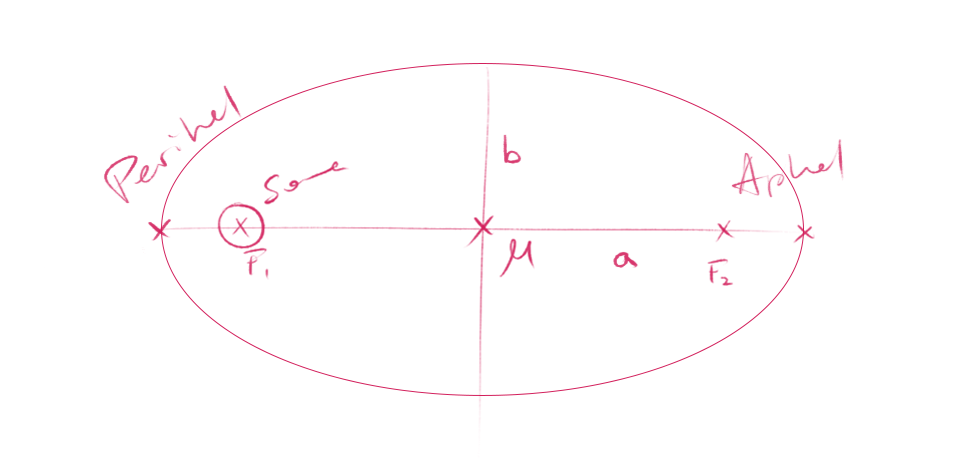
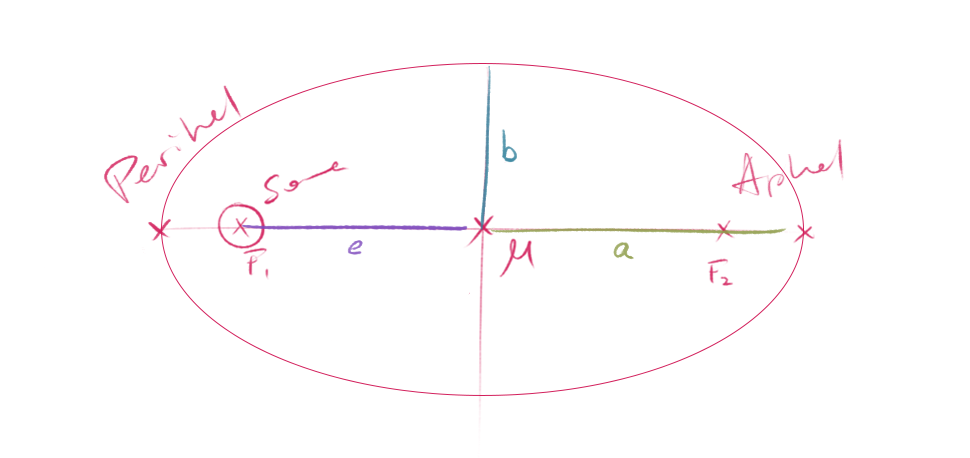
regular update

Changed region(s): [[0.2474, 0.214, 0.8041, 0.5808]]

diff --git a/physik/04_gravitationstheorie/07_kepler.md b/physik/04_gravitationstheorie/07_kepler.md
@@ -2,40 +2,48 @@
 title: Kepler
 ---
 
-Kepler hat 3 wesentliche Entdeckungen zur Thema Planetenmechanik gemacht, aber keine physikalische Erklärung dafür gefunden.  
-Erst Newton konnte in Rahmen seine klassische Mechanik bzw. klassische Gravitationstheorie eine Plysikalische Erklärung geben und dass 2. und 3. Keplersches Gesetz herleiten.  
+Kepler machte drei wesentliche Entdeckungen zur Planetenmechanik,  
+konnte jedoch keine physikalische Erklärung dafür liefern.  
+
+Erst Newton konnte im Rahmen seiner klassischen Mechanik bzw. seiner
+klassischen Gravitationstheorie eine physikalische Erklärung geben
+und das zweite sowie das dritte Keplersche Gesetz herleiten.  
 
 
 ## 1. Keplersches Gesetz
 
-**Die Planeten bewegen sich in Ellipsenbahnen, in deren gemeinsamen Brennpunkt die Sonne steht.**
+**Die Planeten bewegen sich auf Ellipsenbahnen, in deren einem Brennpunkt die Sonne steht.**
 
 Größte Selbstverständlichkeit ist ohne nachzudenken.  
-Leute sind ausgegangen dass Planetenbahnen Kreisbahnen sind.  
+Leute von früher sind ausgegangen dass Planetenbahnen Kreisbahnen sind.
 
 ![1. Keplersches Gesetz](../media/sketches/kepler01.png)  
 
-Aphel: Sonnenfernste Punkt  
-Perihel: Sonnennächste Punkt  
+Aphel: sonnenfernster Punkt  
+Perihel: sonnennächster Punkt  
 $a \dots$ große Halbachse  
 $b \dots$ kleine Halbachse  
-$e \dots$ Exzentrität *(ist eine Bestimmungsgröße für Ellipsen. Sie gibt das Ausmaß der Abweichung der Ellipsenform von der Kreisform an: Je größer die Exzentrizität, desto stärker ist die Ellipse ausgeprägt)*
+$e \dots$ Exzentrizität  
+
+*(Exzentrizität ist eine Bestimmungsgröße für Ellipsen. Sie gibt das Ausmaß der Abweichung
+der Ellipsenform von der Kreisform an:  
+Je größer die Exzentrizität, desto stärker ist die Ellipse ausgeprägt)*
 
 
 
 ## 2. Keplersches Gesetz
 
-**Der von der Sonne zum Planeten zeigende Radiusvektor $r$ überstreicht in gleichen Zeiten gleiche Flächen**
+**Der von der Sonne zum Planeten zeigende Radiusvektor $r$ überstreicht
+in gleichen Zeiten gleiche Flächen.**
 
 $$ 
 \frac{\Delta A_1}{\Delta t_1} = \frac{\Delta A_2}{\Delta t_2}
 $$
 
-$\Delta A_1$, $\Delta A_2 \dots$ überstrichene Fläche  
-$\Delta t_1$, $\Delta t_2 \dots$ Zeitspanne  
+$\Delta A_1$, $\Delta A_2 \dots$ überstrichene Flächen  
+$\Delta t_1$, $\Delta t_2 \dots$ Zeitspannen  
 
-
-also: Wenn $\Delta t_1 = \Delta t_2$, dann Wenn $\Delta A_1 = \Delta A_2$.  
+also: Wenn $\Delta t_1 = \Delta t_2$, dann gilt $\Delta A_1 = \Delta A_2$.  
 
 $L \dots$ Drehimpuls
 
@@ -43,65 +51,86 @@ $$
 L = m \cdot v \cdot r = \text{const}
 $$
 
-Die Drehimpuls eines Planetes ist immer konstant. 
+Der Drehimpuls eines Planeten ist konstant.  
 
 ![2. Keplersches Gesetz](../media/sketches/kepler02.png)
 
-Wenn wir die Bewegung des Planeten nur über eine kurze Zeit betrachten, können wir annehmen dass die Geschwindigkeit des Planeten konstant bleibt  ($v = \text{const}$) und dass der Planet anstatt Ellipsenbahn eine gerade Strecke zurücklegt.
+Wenn wir die Bewegung des Planeten nur über eine kurze Zeit betrachten,
+können wir annehmen, dass die Geschwindigkeit des Planeten konstant bleibt
+($v = \text{const}$)  
+und dass der Planet anstatt einer Ellipsenbahn eine gerade Strecke zurücklegt.
 
 ![2. Keplersches Gesetz](../media/sketches/kepler03.png)  
 
 
-wenn $v = \text{const}$ gilt: 
+Wenn $v = \text{const}$ gilt:
 
 $$
-v=s/t
+v = \frac{s}{t}
 $$
 
-$s/t$ statt $v$ einsetzen:
+$s/t$ anstelle von $v$ einsetzen:
 
 $$
 L = m \cdot \frac{s}{t} \cdot r
 $$
 
-oder 
+oder
 
 $$
 L = \frac{m \cdot r \cdot s}{t}
 $$
 
-wobei $P_1 P_2 F_1$ bilden ein rechtwinkeliges Dreieck mit Flächeninhalt:  
+wobei $P_1$, $P_2$ und $F_1$ ein rechtwinkliges Dreieck mit dem Flächeninhalt bilden:
 
 $$
 A_\triangle = \frac{r \cdot s}{2}
 $$
 
-umformen: 
+Umformen:
 
 $$ 
-s \cdot r = 2A_\triangle
+r \cdot s = 2A_\triangle
 $$
 
-einsetzen in $L$:
+Einsetzen in $L$:
 
 $$
 L = m \cdot \frac{2A_\triangle}{t} = \text{const}
 $$
 
-nach $A_\triangle / t$ formen:
+Nach $A_\triangle / t$ umformen:
 
 $$
 \frac{A_\triangle}{t} = \frac{L}{2m} = \text{const}
 $$
 
-also:  
+also:
 
 $$
 \frac{A_1}{t_1} = \frac{A_2}{t_2} = \frac{L}{2m} = \text{const}
 $$
 
-*Kepler wusste die Daten, aber nicht die Zusammenhang*
-*(To be supplemented)*
+*Kepler kannte die Daten, aber nicht den physikalischen Zusammenhang.*
+
 
 
 ## 3. Keplersches Gesetz
+
+**Die Quadrate der Umlaufzeiten $T_1, T_2$ zweier Planeten verhalten sich
+wie die dritten Potenzen der großen Halbachsen $a_1, a_2$
+ihrer Bahnellipsen.**
+
+$$
+\frac{{T_1}^2}{{a_1}^3} =
+\frac{{T_2}^2}{{a_2}^3} =
+\frac{{T_3}^2}{{a_3}^3} =
+\dots =
+\frac{{T_8}^2}{{a_8}^3} = \text{const}
+$$
+
+
+*(8 für unser Sonnensystem)*
+
+Wir gehen von einer vereinfachten Annahme aus:  
+**Die Planetenbahn ist eine Kreisbahn mit festem Radius $r$.**

diff --git a/physik/log.md b/physik/log.md
@@ -21,5 +21,9 @@ to be supp :
 Completed:  
 - Newton
 
-2026.02.15
+2026.02.15  
 correction
+
+2025.02.16  
+regular
+kepler3

diff --git a/physik/04_gravitationstheorie/06_zentripetalkraft.md b/physik/04_gravitationstheorie/06_zentripetalkraft.md
@@ -70,3 +70,4 @@ $$
 $$
 v = \sqrt{\frac{G \cdot m_1}{r}}
 $$
+
